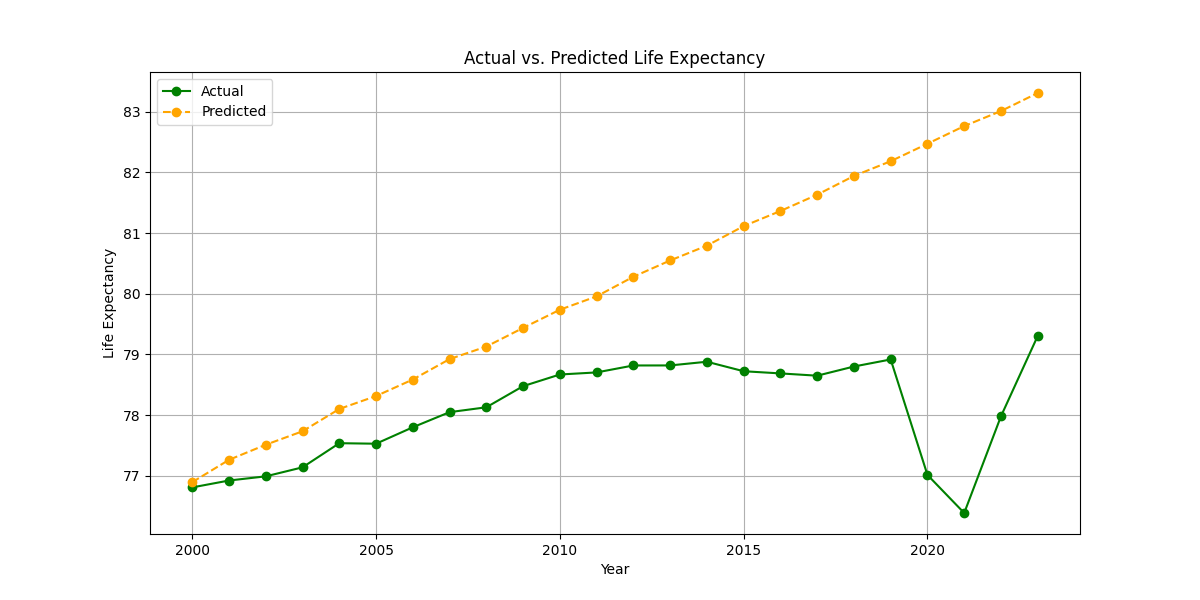
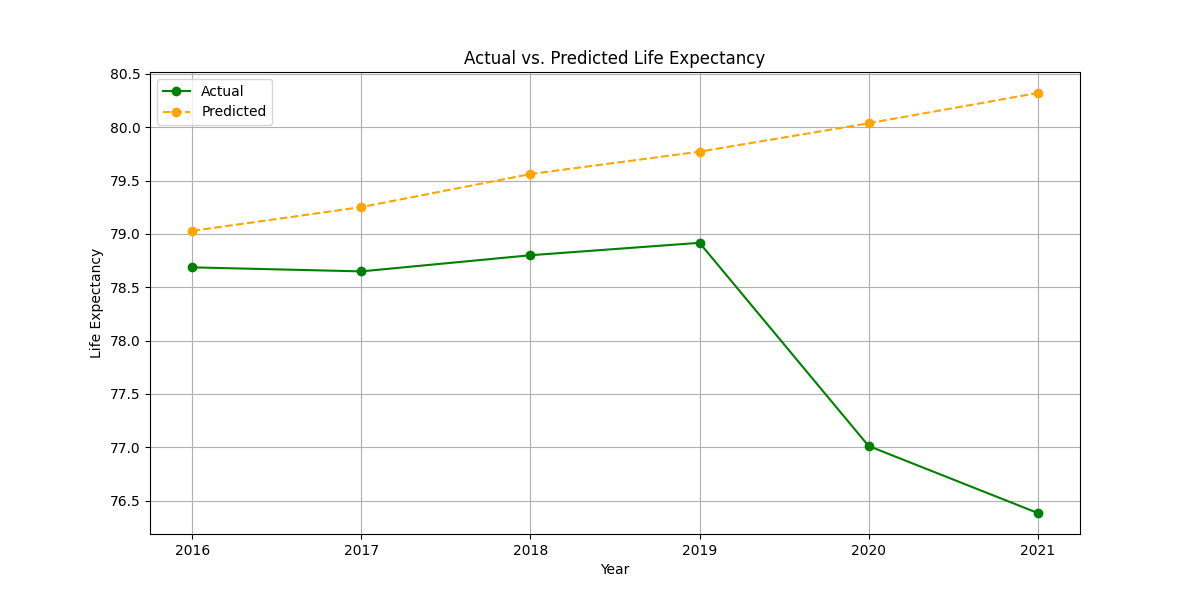
Updated ARIMA python file so the model tests on the same time period as the FB Prophet models

diff --git a/scripts/arima.py b/scripts/arima.py
@@ -11,6 +11,7 @@ def pull_data():
     df = pd.read_csv(RAW_FILES["life_expectancy"])
     df = df[df['Code'] == 'USA'].reset_index(drop=True)
     df = df.iloc[2:].reset_index(drop=True)  # drop first two rows (1880, 1890)
+    df = df[:-2].reset_index(drop=True) # drop last two rows (2022, 2023)
     df.rename(columns={"Period life expectancy at birth - Sex: total - Age: 0": "Life Expectancy"}, inplace=True)
     df.drop(columns=["Entity", "Code"], inplace=True)
     return df
@@ -73,8 +74,8 @@ def save_results(test, forecast):
 
 def main():
     df = pull_data()
-    train = df[df['Year'] <= 1999]
-    test = df[df['Year'] >= 2000]
+    train = df[df['Year'] <= 2015]
+    test = df[df['Year'] >= 2016]
     
     best_model_fit = train_arima(train)
     forecast = generate_forecast(best_model_fit, test['Year'].values)
